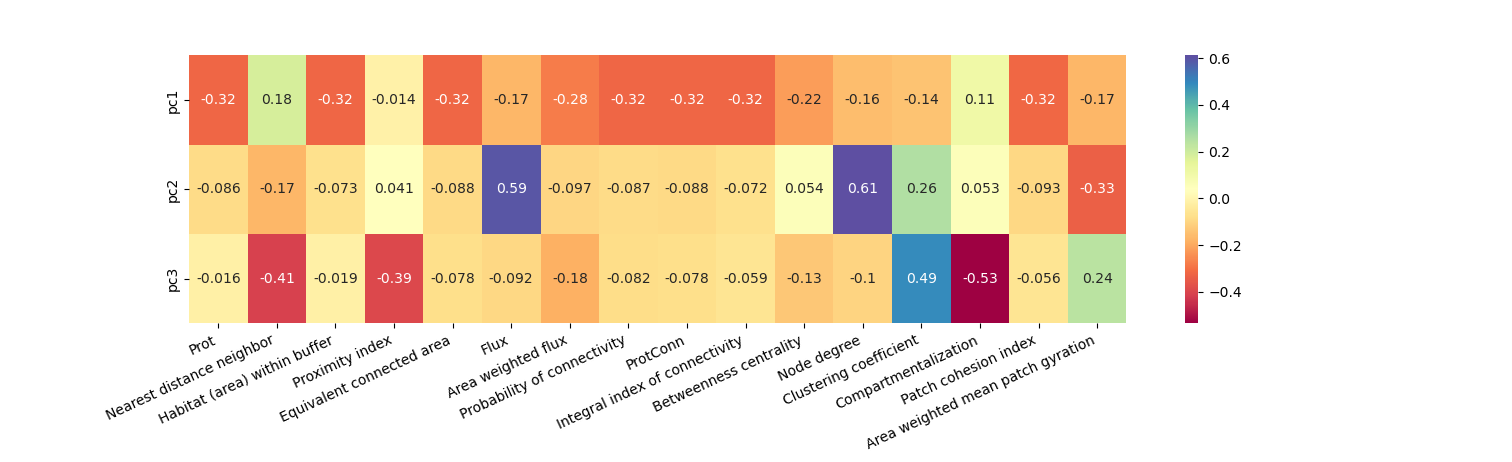
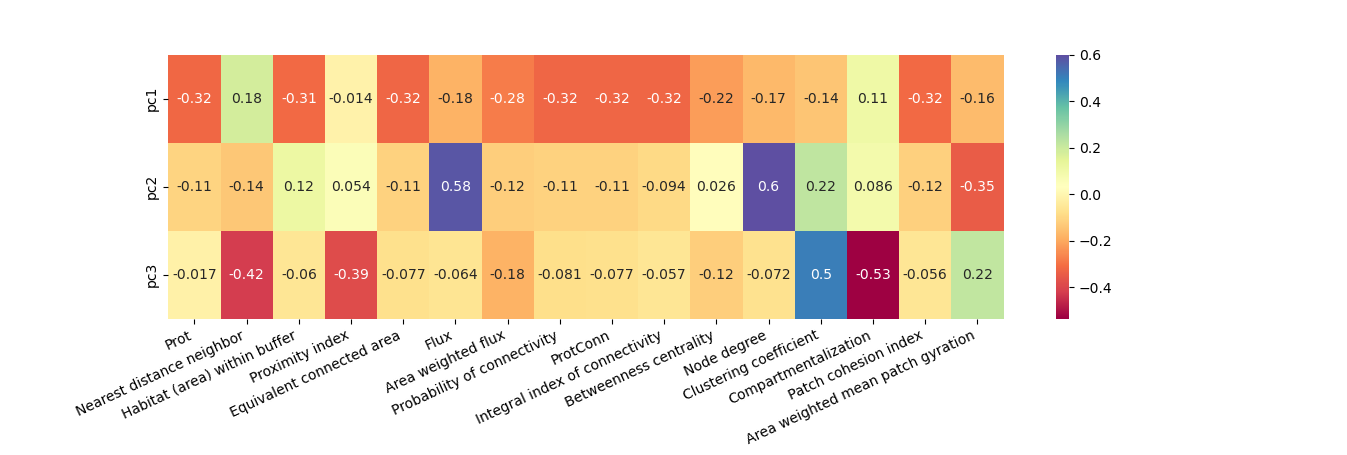
edit

diff --git a/3pearson_and_pca.py b/3pearson_and_pca.py
@@ -48,7 +48,7 @@ def calcChange(fieldname):
     percentchangename = 'p_' + fieldname
 
     df[changename] = ca_val - df[fieldname]
-    df[percentchangename] = 100*df[changename]/ca_val
+    df[percentchangename] = 100*df[changename]/df[fieldname]
 
 
 def calculate_pvalues(df):
@@ -147,7 +147,7 @@ ax.set_xticklabels(
 plt.subplots_adjust(bottom = 0.3)
 plt.show()
 
-# percent change values
+# percent change values also need to be normalized
 
 # first, normalize
 for f in pcols:
@@ -158,7 +158,7 @@ x2 = dfnormp.values
 x2 = StandardScaler().fit_transform(x2)
 pca_p = PCA()
 principalComponentsp = pca_p.fit(x1)
-principalComponentsp_arr = pca_p.fit_transform(x1) # pca scores
+principalComponentsp_arr = pca_p.fit_transform(x2) # pca scores
 loadings_p = principalComponentsp.components_
 principalComponentsp.explained_variance_ratio_
 np.cumsum(principalComponentsp.explained_variance_ratio_)
